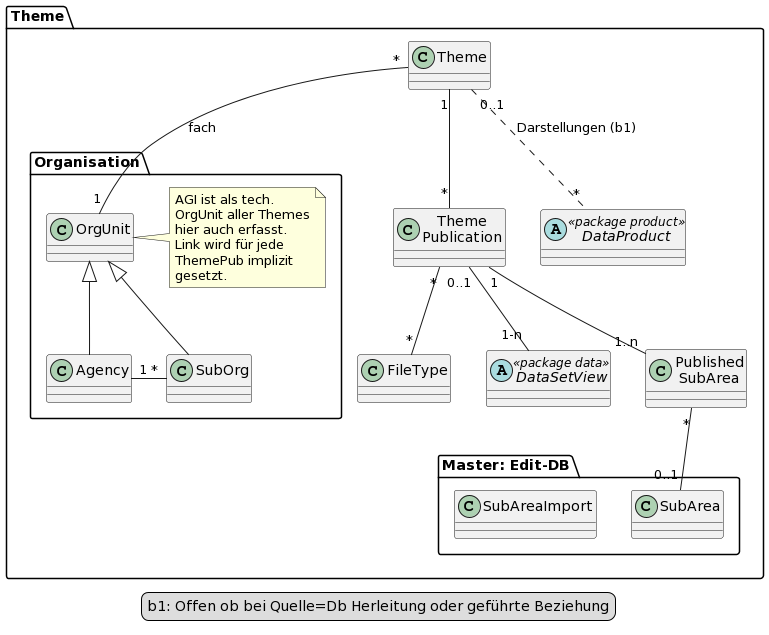
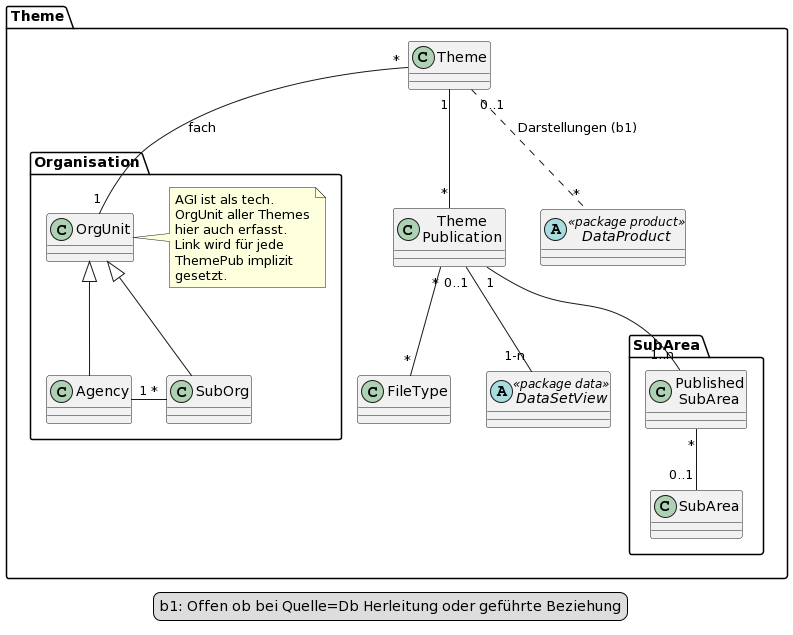
subarea classes

diff --git a/modeldoc/theme_subarea.md b/modeldoc/theme_subarea.md
@@ -1,0 +1,64 @@
+# SubArea (Theme)
+
+Dokumentiert die Klassen des Package Theme.SubArea (SIMI) und die Zusammenhänge zum Modell "SO_AGI_Meta_Datenabdeckung_YYYYMMDD" im Schema agi_data_coverage auf der Edit-DB.
+
+![DataCoverage](resources/theme/subarea.png)
+
+## Klasse PublishedSubArea
+
+Mit dem "LastPublished date" wird in dieser Klasse gespeichert, wann ein Teilgebiet einer Themenpublikation das letzte Mal publiziert wurde. LastPublished wird für Vektordaten via GRETL-Publisher geschrieben.
+
+### Attributbeschreibung
+
+|Name|Typ|Z|Beschreibung|
+|---|---|---|---|
+|lastPublished|DateTime|j|Letzte (aktuellste) Publikation dieses Teils der ThemenBereitstellung.|
+
+### Konstraints
+
+UK über die FK
+
+## Klasse SubArea
+
+Fläche eines Teilgebietes des Kanton Solothurn. Alle 1-n Teilgebiete der gleichen Datenabdeckung bilden zusammen ein AREA-Datensatz, welcher 
+die Datenabdeckung innerhalb des Kt. Solothurn dokumentiert.
+
+Wird mittels GRETL-Job aus dem Schema "agi_data_coverage" (Modell SO_AGI_Meta_Datenabdeckung_YYYMMMDD) gepflegt (Bulk InsUpdDel).
+
+### Attributbeschreibung
+
+|Name|Typ|Z|Beschreibung|
+|---|---|---|---|
+|identifier|String(100)|j|Eindeutige Kennung des Teilgebiets.|
+|coverageIdent|String(100)|j|Kennung der Datenabdeckung des Teilgebiets.|
+|geomWkb|byte[]|j|Polygon-Geometrie des Teilgebietes als WKB.|
+|title|String(255)|n|Sprechender Titel des Teilgebiets.|
+|version|DateTime|n|Timestamp der Version. Notwendig für den GRETL Aktualisierungs-Job|
+
+### Konstraints
+
+UK über identifier, coverageIdent, version
+
+# Ablauf der Datensynchronisation
+
+* db2db mit version = null
+* Update der bestehende Beziehungen von PublishedSubArea auf die neu importierten SubArea
+* Alle Subareas löschen: `where version is not null`
+* Version für neu importierte setzen: `version = now()`
+
+# Ablauf bei PUT-Aufruf durch Publisher
+
+## Publisher sendet Aktualisierung
+
+    {
+      "dataIdent": "ch.so.afu.gewaesserschutz",
+      "published": "2021-12-23T14:54:49.050062",
+      "partIdentifiers": ["224", "225"]
+    }
+
+## Aktualisierung PublishedSubArea
+
+* Falls PublishedSubArea bereits vorhanden:
+  * Dieses Aktualisieren (Timestamp)
+* Sonst:
+  * Neues PublishedSubArea erstellen

diff --git a/modeldoc/theme.md b/modeldoc/theme.md
@@ -4,7 +4,13 @@ Bildet die Themen und Themenbereitstellungen ab (Datenbezug)
 
 ![Theme](resources/theme/theme.png)
 
-## Bemerkung zu den Attributbeschreibungen
+## Bemerkungen 
+
+### Unter-Package "SubArea"
+
+Dokumentation siehe [hier](theme_subarea.md)
+
+### Attributbeschreibungen
 
 Ggf. werden die Beschreibungen mit den Tags $meta $port versehen, damit nachvollzogen werden kann, zu welchen Zwecken ein Attribut geführt wird. Falls weder $meta noch $port angegeben --> Attribut dient "nur" der internen Dokumentation.
 
